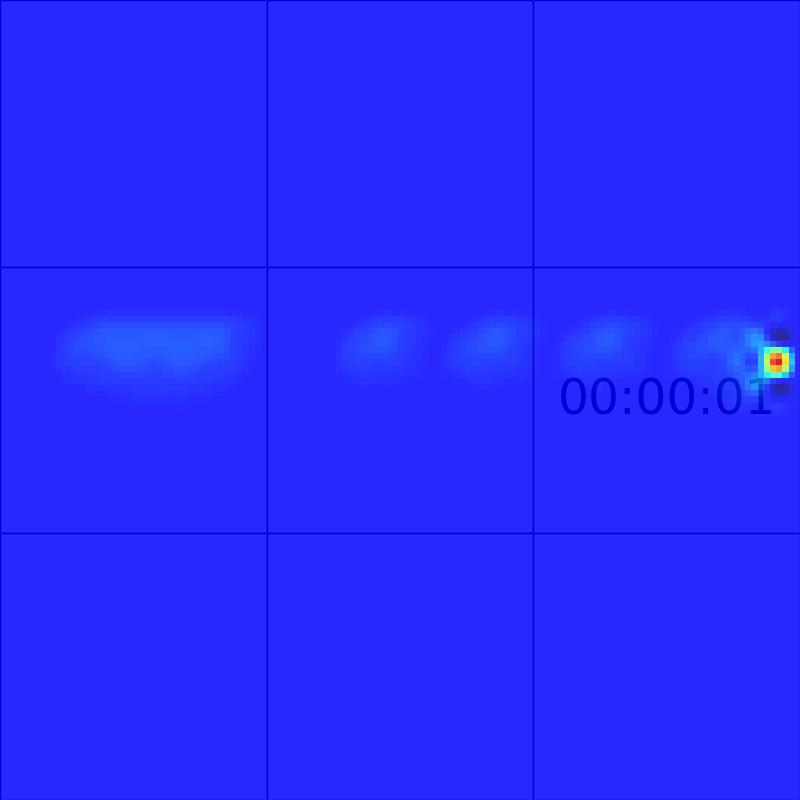
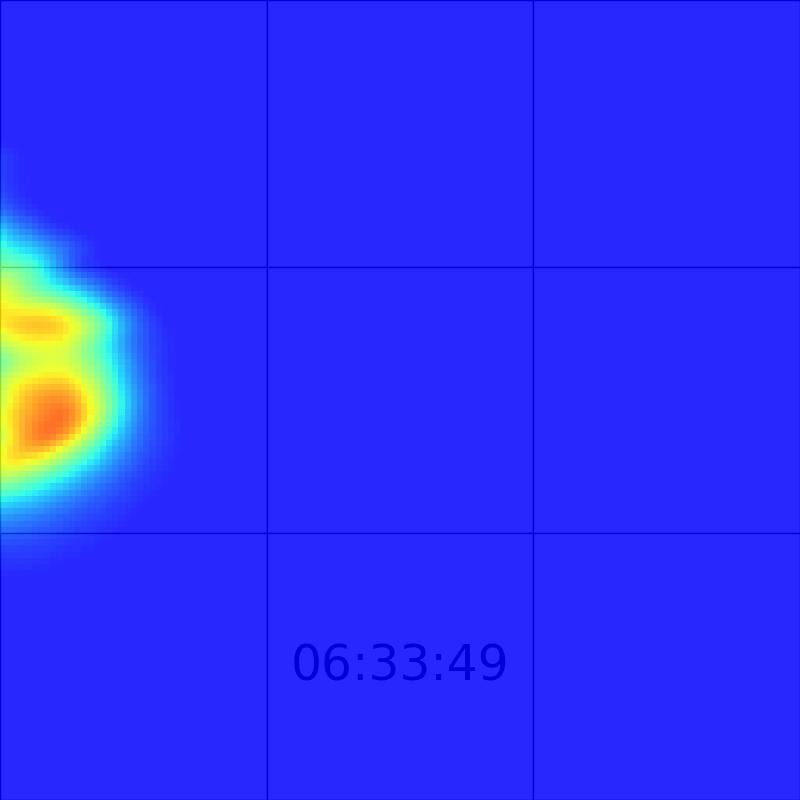
Agrega ajuste para sensor 2 (para que coincida con la matriz de presión)

diff --git a/sensorFlexibleSQLiteDB/interfazTiemposExposicionSensor1.py b/sensorFlexibleSQLiteDB/interfazTiemposExposicionSensor1.py
@@ -78,6 +78,9 @@ class interfazTiemposExposicion:
                 #Sensor 1
                 matrizSensor1 = ast.literal_eval(str(dataSensor1))
 
+                if idSensor == 2:
+                    matrizSensor1 = scipy.ndimage.rotate(matrizSensor1, -90)
+
                 matrizDistribucionPresion = matrizSensor1
 
                 self.tiempo = self.cronometro.calculaTiempo()
